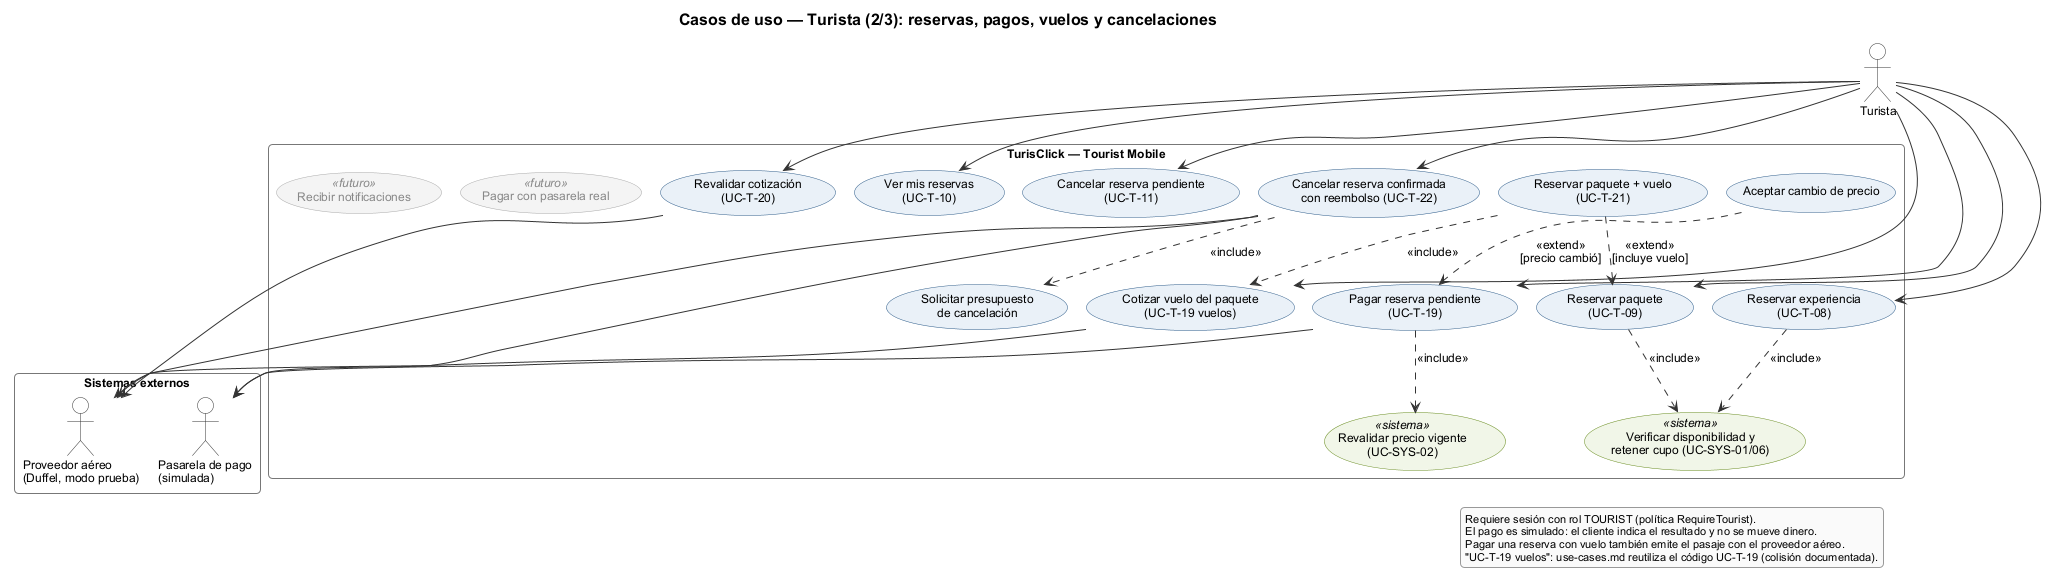
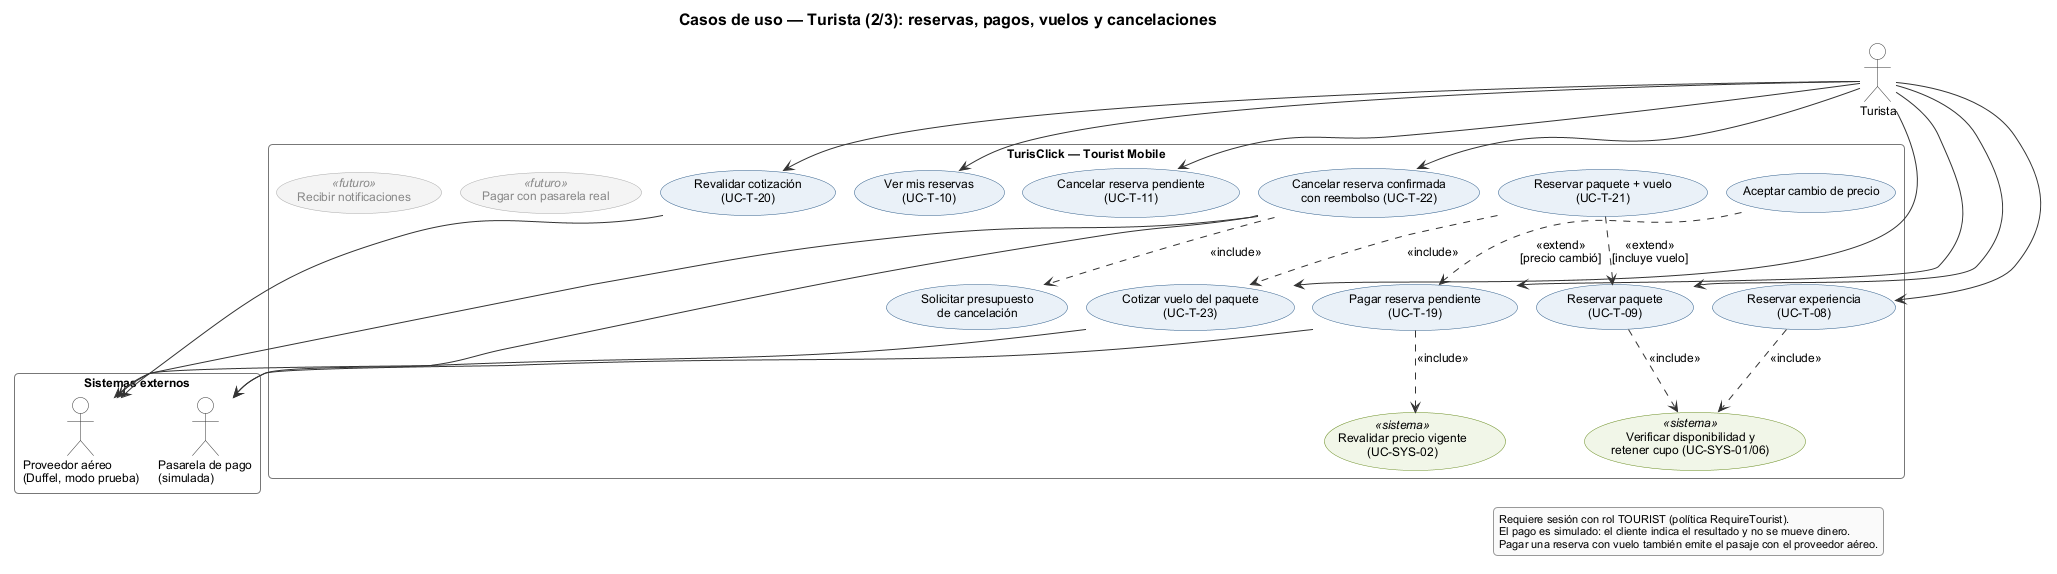
docs(turisclick): align use cases and UML diagrams
Cierra la colisión del código UC-T-19, que se usaba a la vez para "Pagar una
reserva pendiente" y para "Cotizar el vuelo de un paquete". La cotización de
vuelo pasa a UC-T-23 y UC-T-19 queda para el pago.

Se actualizaron las dos referencias en los diagramas (el caso de uso cu-01b y
la secuencia sec-04a), sus renders SVG y PNG, la tabla de trazabilidad del
README de diagramas y la nota de inconsistencias, que ahora registra la
colisión como resuelta en lugar de como pendiente.

El catálogo de casos de uso había dejado de mantenerse en la Oleada 12. Se
incorporan las Oleadas 9 y 13 a 19, que ya estaban implementadas y desplegadas
sin casos de uso documentados: UC-T-24, UC-A-11 a UC-A-14, UC-P-15 a UC-P-17,
UC-T-23, UC-T-25 y UC-T-26, más las extensiones de casos existentes. El
catálogo queda en 74 códigos sin colisiones.

Dos puntos de precisión, porque este material es evidencia del proyecto de
grado:

- UC-P-17 (vuelos de operador, Oleada 18) se documenta como IMPLEMENTADO Y
  DESACTIVADO, con la advertencia explícita de que no es una capacidad vigente
  para los usuarios. Se apagó por configuración en la Oleada 19 y sus endpoints
  responden 501.
- La tabla que contrasta los dos servicios de vuelo decía que el vuelo dentro
  de un paquete usa "Duffel en modo de prueba". Es engañoso: hay un solo
  IFlightProvider, elegido por Flights:Provider, cuyo valor por omisión es
  Fake, y la sección Flights no está en ningún appsettings. La verificación en
[…]

diff --git a/docs/use-cases.md b/docs/use-cases.md
@@ -91,6 +91,22 @@ CASO DE USO → diseño funcional → entidades necesarias → DTOs → Reposito
 | UC-T-11 | Cancelar una reserva | TOURIST | 8 |
 | UC-P-14 | Cancelar/rechazar una reserva (excepcional) | PROVIDER | 8 |
 | UC-SYS-08 | Liberar cupo por expiración/cancelación | Sistema | 8 |
+| UC-T-24 | Registrar mis preferencias de viaje | TOURIST | 9 |
+| UC-P-15 | Configurar las reglas de vuelo de un paquete | PROVIDER | 10 |
+| UC-A-09 | Inspeccionar las reglas de vuelo de cualquier paquete | ADMIN | 10 |
+| UC-T-23 | Cotizar el vuelo de un paquete | TOURIST (público) | 10 |
+| UC-T-20 | Revalidar la cotización antes de comprar | TOURIST (público) | 10 |
+| UC-T-21 | Reservar paquete + vuelo en una sola operación | TOURIST | 11 |
+| UC-P-16 | Configurar la política de cancelación por tramos | PROVIDER | 12 |
+| UC-T-22 | Ver el reembolso por componente, aceptarlo y cancelar | TOURIST | 12 |
+| UC-A-10 | Inspeccionar el libro de pagos de una reserva | ADMIN | 12 |
+| UC-A-11 | Crear la cuenta de un operador | ADMIN | 13 |
+| UC-A-12 | Crear la cuenta de otro administrador | ADMIN | 17 |
+| UC-A-13 | Regenerar la contraseña de otro administrador | ADMIN | 17 |
+| UC-A-14 | Reintentar una cancelación que quedó trabada | ADMIN | 17 |
+| UC-P-17 | Publicar vuelos propios y registrar su emisión | PROVIDER | 18 — **desactivado** |
+| UC-T-25 | Buscar vuelos entre dos aeropuertos | TOURIST (público) | 19 |
+| UC-T-26 | Abrir la oferta de vuelo en el sitio del vendedor | TOURIST (público) | 19 |
 | UC-P-03 | Agregar usuario Provider adicional a la empresa | PROVIDER | Backlog |
 
 ---
@@ -750,9 +766,17 @@ CASO DE USO → diseño funcional → entidades necesarias → DTOs → Reposito
 | 6 | IA — iteración y persistencia | UC-T-15, UC-AI-05, UC-AI-06, UC-T-16, UC-T-17 |
 | 7 | IA — de propuesta a reserva | UC-T-18, UC-SYS-05, UC-SYS-09 |
 | 8 | Moderación, cancelaciones, gestión de usuarios | UC-A-06, UC-A-07, UC-A-08, UC-T-11, UC-P-14, UC-SYS-08 |
-| 10 | Vuelos en paquetes de proveedor | UC-P-15, UC-A-09, UC-T-19, UC-T-20 |
+| 10 | Vuelos en paquetes de proveedor | UC-P-15, UC-A-09, UC-T-23, UC-T-20 |
 | 11 | Reserva coordinada de paquete + vuelo | UC-T-21 |
+| 9 | Calendario, imágenes de destino y preferencias del turista | UC-T-24, + extensiones de UC-A-04, UC-P-10, UC-P-11 |
 | 12 | Libro de pagos y cancelación con reembolso | UC-P-16, UC-T-22, UC-A-10 |
+| 13 | Alta de operadores por el administrador | UC-A-11 |
+| 14 | Preparación de despliegue | *(sin casos de uso: técnica)* |
+| 15 | Diagramas y documentación de tesis | *(sin casos de uso: documentación)* |
+| 16 | Historial de recomendaciones del asistente | *(extensión de UC-AI-06)* |
+| 17 | Administradores, moderación y cancelaciones trabadas | UC-A-12, UC-A-13, UC-A-14, + extensiones de UC-A-04, UC-A-06, UC-A-07, UC-P-04, UC-P-14 |
+| 18 | Vuelos de operador — **implementada y desactivada** | UC-P-17 *(desactivado)* |
+| 19 | Metabuscador de vuelos con redirección | UC-T-25, UC-T-26 |
 | Backlog | Multi-usuario por empresa, reseñas, favoritos, pagos reales, cancelación con reembolso | UC-P-03 y otros |
 
 Cada oleada solo introduce las entidades estrictamente necesarias para los casos de uso que la componen (consistente con "no construir entidades sin un caso de uso que las necesite").
@@ -765,7 +789,7 @@ Cada oleada solo introduce las entidades estrictamente necesarias para los casos
 |---|---|---|---|
 | **UC-P-15** | Configurar las reglas de vuelo de un paquete (destino, orígenes permitidos, cabina, desfases de fecha) | Operador | implementado |
 | **UC-A-09** | Inspeccionar las reglas de vuelo de cualquier paquete de la plataforma | Admin | implementado |
-| **UC-T-19** | Cotizar el vuelo de un paquete desde un origen permitido, con precios reales del proveedor | Turista (público) | implementado |
+| **UC-T-23** | Cotizar el vuelo de un paquete desde un origen permitido, con precios reales del proveedor | Turista (público) | implementado |
 | **UC-T-20** | Revalidar la cotización antes de comprar y ver si sigue igual, cambió, venció o ya no está | Turista (público) | implementado |
 | **UC-T-21** | Reservar paquete + vuelo en una sola operación, con datos de pasajeros y emisión del pasaje | Turista | implementado |
 | **UC-P-16** | Configurar la política de cancelación de un paquete por tramos de anticipación | Operador | implementado |
@@ -775,3 +799,115 @@ Cada oleada solo introduce las entidades estrictamente necesarias para los casos
 La regla que ordena los cuatro: **el operador configura cómo se busca el vuelo, no cuál es el vuelo**.
 El pasaje concreto y su precio salen del proveedor en el momento de cotizar, y no se consideran
 garantizados hasta revalidarlos.
+
+---
+
+# Oleadas 9 y 13–19 — casos de uso incorporados
+
+Esta sección se agregó el **27/10/2026**. El catálogo había dejado de mantenerse en la
+Oleada 12: las Oleadas 9 y 13 a 19 ya estaban implementadas y desplegadas sin casos de uso
+documentados. Lo que sigue describe el **estado funcional vigente**.
+
+## Oleada 9 — calendario, imágenes y preferencias
+
+| Código | Caso | Quién | Estado |
+|---|---|---|---|
+| **UC-T-24** | Registrar mis preferencias de viaje al entrar por primera vez, y editarlas después | Turista | implementado |
+
+**Extensiones de casos de uso existentes** (no son casos nuevos):
+
+- **UC-P-10 / UC-P-11** — la disponibilidad puede definirse con un **calendario programado**,
+  además de por fechas sueltas.
+- **UC-A-04** — un destino tiene **imágenes**, y se pueden **subir desde el Backoffice**
+  (esto último llegó en la Oleada 17).
+- **UC-AI-06** — el asistente **explica** cuando un itinerario guardado tiene fechas vencidas.
+
+## Oleada 13 — alta de operadores por el administrador
+
+| Código | Caso | Quién | Estado |
+|---|---|---|---|
+| **UC-A-11** | Crear la cuenta de un operador y su empresa, sin esperar a que él se registre | Admin | implementado |
+
+## Oleada 16 — historial del asistente
+
+Extensión de **UC-AI-06**: cada respuesta conserva sus recomendaciones en el historial de la
+conversación, de modo que al retomarla se vuelve a ver qué se recomendó y por qué.
+
+## Oleada 17 — administradores, moderación y cancelaciones trabadas
+
+| Código | Caso | Quién | Estado |
+|---|---|---|---|
+| **UC-A-12** | Crear la cuenta de otro administrador | Admin | implementado |
+| **UC-A-13** | Regenerar la contraseña de otro administrador | Admin | implementado |
+| **UC-A-14** | Reintentar una cancelación que quedó trabada a medio camino | Admin | implementado |
+
+**Extensiones**: **UC-A-06** y **UC-A-07** se ampliaron con moderación de contenido y gestión
+de usuarios desde el Backoffice; **UC-P-04** admite categorías en las experiencias;
+**UC-P-14** se puede ejercer desde el Backoffice del operador.
+
+## Oleada 18 — vuelos de operador: implementada y después desactivada
+
+| Código | Caso | Quién | Estado |
+|---|---|---|---|
+| **UC-P-17** | Publicar vuelos propios, venderlos dentro de TurisClick y registrar la emisión de cada pasaje | Operador | **implementado y desactivado** |
+
+> **No es una capacidad vigente para los usuarios.**
+>
+> Se construyó de punta a punta —contratos, backend, migración `0015`, Backoffice, app,
+> emisión por pasajero— y en la Oleada 19 se **apagó por configuración**
+> (`Flights:ProviderFlights:Enabled = false`). El código y las tablas se conservan; los
+> endpoints de operador y de administrador responden **501 `FEATURE_NOT_AVAILABLE`**, y una
+> reserva heredada con un vuelo de operador pendiente **no se cobra**.
+>
+> Se documenta como parte del historial del proyecto, no como funcionalidad disponible.
+
+## Oleada 19 — metabuscador de vuelos con redirección
+
+| Código | Caso | Quién | Estado |
+|---|---|---|---|
+| **UC-T-25** | Buscar vuelos entre dos aeropuertos, con fecha, pasajeros y cabina | Turista (público) | implementado |
+| **UC-T-26** | Abrir la oferta elegida en el sitio del vendedor para comprarla ahí | Turista (público) | implementado |
+
+**UC-T-26** sólo se ofrece cuando la oferta es real, el enlace lo da el proveedor, es `https`
+y su host coincide exactamente con uno autorizado. TurisClick **no construye URLs**. Cuando
+no se puede redirigir, se dice por qué: `DEMO`, `NO_LINK` o `LINK_NOT_ALLOWED`.
+
+> **Estado actual: DEMO.** El proveedor configurado es el simulado (`Flights:Provider = Fake`),
+> así que las ofertas se rotulan como de demostración y **ninguna redirige**. Integrar un
+> proveedor con permiso contractual de redirección es una mejora futura, no un requisito de
+> cierre.
+
+---
+
+# Los dos servicios de vuelo, que no son lo mismo
+
+| | **Vuelo dentro de un paquete** | **Vuelo independiente** |
+|---|---|---|
+| Casos de uso | UC-P-15, UC-A-09, **UC-T-23**, UC-T-20, UC-T-21 | **UC-T-25**, **UC-T-26** |
+| Modelo | Marketplace | Metabuscador |
+| Quién vende | La agencia, dentro de TurisClick | Un vendedor externo, en su sitio |
+| Dónde se paga | **En TurisClick** (simulado) | **Fuera de TurisClick** |
+| Proveedor | Duffel: **integración implementada** y con token de prueba obligatorio (`duffel_test_`). **En el despliegue actual corre el proveedor simulado**, porque `Flights:Provider` no está configurado y su valor por omisión es `Fake` | Simulado (DEMO) |
+| Vigente | Sí | Sí, en modo demostración |
+
+Y una tercera, que **ya no está vigente**: **UC-P-17**, el vuelo independiente vendido *dentro*
+de TurisClick por el operador (Oleada 18). Está implementada y desactivada.
+
+**No confundir** un paquete que incluye transporte aéreo (se compra en TurisClick) con un
+vuelo independiente (se compra en el sitio del vendedor).
+
+---
+
+# Requisitos no funcionales
+
+Se documentan acá porque están implementados y probados, pero no son casos de uso: no tienen
+un actor que persiga un objetivo.
+
+| Código | Requisito | Oleada | Estado |
+|---|---|---|---|
+| **RNF-SEC-01** | El mensaje del turista se trata como dato, nunca como instrucción para el modelo | 9 | implementado |
+| **RNF-SEC-02** | Un error 500 no publica el detalle interno de la excepción ni el error de PostgreSQL | 15 | implementado |
+| **RNF-SEC-03** | Una empresa suspendida no filtra a la búsqueda de vuelos ni a los itinerarios de IA guardados | 17 | implementado |
+| **RNF-IA-01** | El modelo de lenguaje es opcional, sanitizado y medible; el sistema funciona sin él | 9 | implementado |
+| **RNF-IA-02** | Con el proveedor híbrido, las reglas ganan sobre el modelo en los escalares literales | 10 | implementado |
+| **RNF-ACC-01** | La búsqueda de vuelos es pública mientras el proveedor sea el simulado; la sesión se pide al reservar | 18 | implementado |

diff --git a/docs/diagrams/uml/README.md b/docs/diagrams/uml/README.md
@@ -132,8 +132,8 @@ mantenimiento mientras está a la venta. Las ediciones posteriores no alteran la
 | cu-01 | Planificar viaje con el asistente de IA | UC-T-12 a UC-T-17, UC-AI-01 a UC-AI-06 |
 | cu-01 | Reservar itinerario propuesto | UC-T-18 (UC-SYS-05) |
 | cu-01 | Reservar experiencia o paquete | UC-T-08, UC-T-09 (UC-SYS-01, UC-SYS-04, UC-SYS-06) |
-| cu-01 | Incluir vuelo en el paquete | UC-T-19 (vuelos), UC-T-20, UC-T-21 |
-| cu-01 | Pagar reserva | UC-T-19 (pago), UC-SYS-02, UC-SYS-07 |
+| cu-01 | Incluir vuelo en el paquete | UC-T-23, UC-T-20, UC-T-21 |
+| cu-01 | Pagar reserva | UC-T-19, UC-SYS-02, UC-SYS-07 |
 | cu-01 | Consultar mis viajes | UC-T-10 |
 | cu-01 | Cancelar reserva | UC-T-11, UC-T-22 (UC-SYS-08) |
 | cu-02 | Gestionar cuenta y sesión | UC-AUTH-02 a UC-AUTH-04 y cambio de contraseña temporal (UC-P-01) |
@@ -206,7 +206,7 @@ Verificadas contra el código de `master`. Ninguna se corrigió en este trabajo 
 |---|---|---|---|
 | 1 | `use-cases.md`, UC-T-11 (y comentario XML de `ReservationService.CancelAsync`) | Cancelar una reserva `CONFIRMED` responde 409 `REFUND_POLICY_REQUIRED` | Desde la Oleada 12 se cancela con presupuesto aceptado (`cancellation-quote` + `cancel`); sin presupuesto responde 409 `CANCELLATION_QUOTE_REQUIRED` |
 | 2 | `use-cases.md`, tabla resumen | UC-P-01 "Registrar empresa y solicitar cuenta Provider", actor PROVIDER | El autorregistro se eliminó: el alta la hace un ADMIN (`POST /api/admin/provider-accounts`); la ficha detallada sí está actualizada |
-| 3 | `use-cases.md`, Oleada 10 | El código UC-T-19 se usa para "Pagar una reserva pendiente" y para "Cotizar el vuelo de un paquete" | Colisión de identificadores; en los diagramas se distingue como "UC-T-19 vuelos" |
+| 3 | `use-cases.md`, Oleada 10 | El código UC-T-19 se usaba para "Pagar una reserva pendiente" y para "Cotizar el vuelo de un paquete" | **Resuelto el 27/10/2026**: la cotización de vuelos pasó a **UC-T-23**; UC-T-19 queda para el pago |
 | 4 | `use-cases.md`, Oleada 10 | Cotizar y revalidar vuelo: "Turista (público)" | Ambos endpoints exigen `RequireTourist` (sesión de turista); sólo `GET /api/airports` es público |
 | 5 | `domain-model.md` | No describe `TouristPreference`, `PackageFlightRule`, `FlightQuote`, `FlightBooking`, `PaymentTransaction` ni `ReservationCancellation(+Line)`; la sección de descartes dice que `Payment` "no se modela todavía"; el diagrama ER tampoco los incluye | Todas existen como entidades EF Core (el libro de pagos cumple el rol de `Payment`) |
 | 6 | `domain-model.md`, tabla de enums | `ReservationStatus` sin `CANCELLING` | El enum incluye `CANCELLING` (la sección 7 sí lo menciona) |
